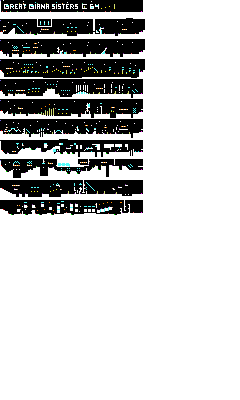
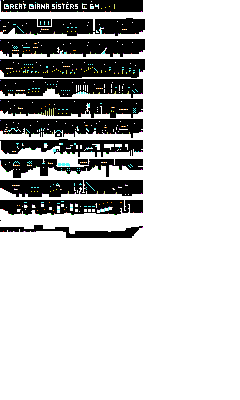
fixed giana NaN bug and ground monster drunk walk

Changed region(s): [[0.0, 0.54, 0.5833, 0.6], [0.2333, 0.33, 0.2625, 0.36]]

diff --git a/core/src/com/mdinic/game/giana/GroundMonster.java b/core/src/com/mdinic/game/giana/GroundMonster.java
@@ -21,11 +21,6 @@ public class GroundMonster {
 
     Vector2 vel = new Vector2();
     Vector2 pos = new Vector2();
-    float angle = 0;
-    int fx = 0;
-    int fy = 0;
-    int bx = 0;
-    int by = 0;
 
     public GroundMonster(Map map, float x, float y, GoundMonsterType type) {
         this.type = type;
@@ -36,46 +31,28 @@ public class GroundMonster {
         bounds.y = y;
         bounds.width = bounds.height = 1;
 
-        vel.set(-1, 0);
-    }
-
-    public void init() {
-        int ix = (int) pos.x;
-        int iy = (int) pos.y;
-
-        int left = map.tiles[ix - 1][map.tiles[0].length - 1 - iy];
-        int right = map.tiles[ix + 1][map.tiles[0].length - 1 - iy];
-        // int top = map.tiles[ix][map.tiles[0].length - 1 - iy - 1];
-        // int bottom = map.tiles[ix][map.tiles[0].length - 1 - iy + 1];
-
-        if (left == Map.TILE) {
-            vel.x = FORWARD_VEL;
-            angle = -90;
-            fx = 1;
-        }
-        if (right == Map.TILE) {
-            vel.x = -FORWARD_VEL;
-            angle = 90;
-            bx = 1;
-        }
+        vel.set(1, 0);
     }
 
     public void update(float deltaTime) {
         stateTime += deltaTime;
-        pos.add(vel.x * deltaTime, vel.y * deltaTime);
-        boolean change = false;
-        int y = map.tiles[0].length - 1 - (int) pos.y;
-        if (state == FORWARD) {
+        bounds.x += vel.x * deltaTime;
+        bounds.y += vel.y * deltaTime;
 
-            change = map.isColidable(map.tiles[(int) Math.floor(pos.x) + fx][y + fy]);
-            change = change || map.tiles[(int) pos.x + fx][y + fy + 1] == 0;
+        boolean change = false;
+        int y = map.tiles[0].length - 1 - (int) Math.floor(bounds.y);
+        if (state == FORWARD) {
+            System.out.println("fw");
+            change = map.isColidable(map.tiles[(int) Math.ceil(bounds.x)][y]);
+            change = change || map.tiles[(int) bounds.x][y + 1] == 0;
         } else {
-            change = map.isColidable(map.tiles[(int) Math.ceil(pos.x) + bx][y + by]);
-            change = change || map.tiles[(int) pos.x + bx + 1][y + by + 1] == 0;
+            System.out.println("bw");
+            change = map.isColidable(map.tiles[(int) Math.floor(bounds.x)][y]);
+            change = change || map.tiles[(int) bounds.x + 1][y + 1] == 0;
         }
         if (change) {
-            pos.x -= vel.x * deltaTime;
-            pos.y -= vel.y * deltaTime;
+            bounds.x -= vel.x * deltaTime;
+            bounds.y -= vel.y * deltaTime;
             state = -state;
             vel.scl(-1);
             if (state == FORWARD)
@@ -84,10 +61,7 @@ public class GroundMonster {
                 vel.nor().scl(BACKWARD_VEL);
         }
 
-        bounds.x = pos.x;
-        bounds.y = pos.y;
-
-        if (map.giana.killerBounds.overlaps(bounds)) {
+        if (map.giana.killerBounds.overlaps(bounds) && !map.demo) {
             if (map.giana.state != GianaState.DYING && alive && type.canBeKilled) {
                 alive = false;
                 map.score += 50;
@@ -95,12 +69,15 @@ public class GroundMonster {
             }
         }
 
-        if (alive && map.giana.bounds.overlaps(bounds)) {
+        if (alive && map.giana.bounds.overlaps(bounds) && !map.demo) {
             if (map.giana.state != GianaState.DYING) {
                 map.giana.state = GianaState.DYING;
                 map.giana.stateTime = 0;
             }
         }
+
+        pos.x = bounds.x;
+        pos.y = bounds.y;
 
     }
 }

diff --git a/core/src/com/mdinic/game/giana/Map.java b/core/src/com/mdinic/game/giana/Map.java
@@ -156,10 +156,6 @@ public class Map {
                 }
             }
         }
-
-        for (GroundMonster monster : groundMonsters) {
-            monster.init();
-        }
     }
 
     boolean match(int src, int dst) {
@@ -167,6 +163,7 @@ public class Map {
     }
 
     public void update(float deltaTime) {
+
         giana.update(deltaTime);
         if (giana.state == GianaState.DEAD)
             return;

diff --git a/core/src/com/mdinic/game/giana/Diamond.java b/core/src/com/mdinic/game/giana/Diamond.java
@@ -27,7 +27,7 @@ public class Diamond {
         if (active) {
             stateTime += deltaTime;
 
-            if (map.giana.bounds.overlaps(bounds)) {
+            if (map.giana.bounds.overlaps(bounds) && map.giana.state != GianaState.DYING && !map.demo) {
                 Sounds.getInstance().play(Sfx.DIAMOND);
                 active = false;
                 map.collectDiamound();

diff --git a/core/src/com/mdinic/game/giana/screens/GameScreen.java b/core/src/com/mdinic/game/giana/screens/GameScreen.java
@@ -33,6 +33,10 @@ public class GameScreen extends GianaSistersScreen {
     @Override
     public void render(float delta) {
         delta = Math.min(0.06f, Gdx.graphics.getDeltaTime());
+
+        if (delta == 0) {
+            return;
+        }
         map.update(delta);
 
         if (map.giana.state == GianaState.DEAD) {
